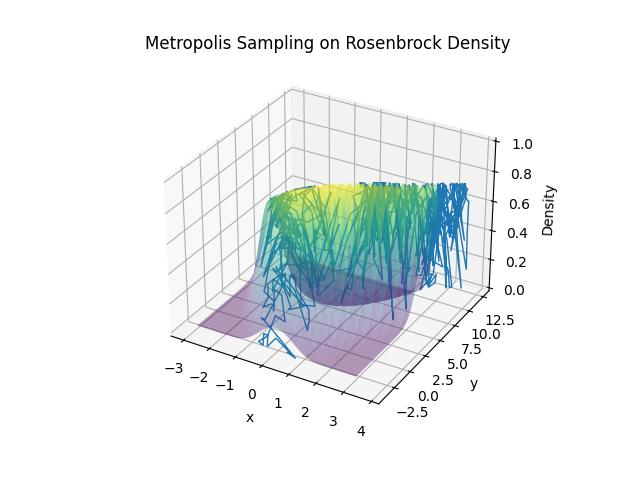
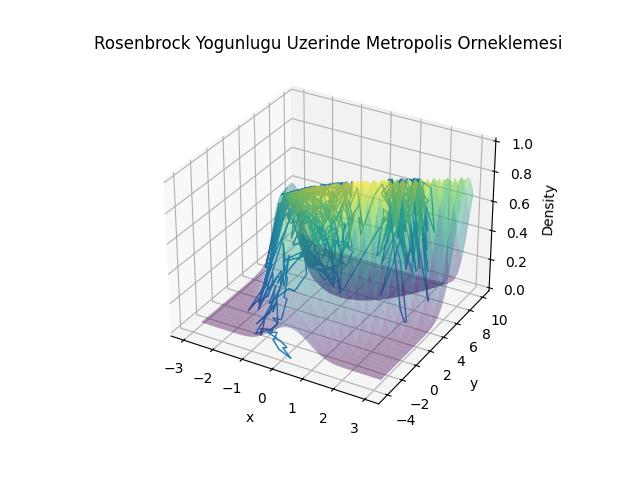
-

diff --git a/stat/stat_097_mcmc/markov_zincirleri_monte_carlo_metropolishastings_gibbs.html b/stat/stat_097_mcmc/markov_zincirleri_monte_carlo_metropolishastings_gibbs.html
@@ -354,87 +354,54 @@ class="sourceCode python"><code class="sourceCode python"><span id="cb1-1"><a hr
 <span id="cb1-22"><a href="#cb1-22" aria-hidden="true" tabindex="-1"></a>plt.savefig(<span class="st">&#39;stat_097_mcmc_01.jpg&#39;</span>)</span></code></pre></div>
 <p><img src="stat_097_mcmc_01.jpg" /></p>
 <div class="sourceCode" id="cb2"><pre
-class="sourceCode python"><code class="sourceCode python"><span id="cb2-1"><a href="#cb2-1" aria-hidden="true" tabindex="-1"></a><span class="im">import</span> numpy <span class="im">as</span> np</span>
-<span id="cb2-2"><a href="#cb2-2" aria-hidden="true" tabindex="-1"></a><span class="im">import</span> matplotlib.pyplot <span class="im">as</span> plt</span>
-<span id="cb2-3"><a href="#cb2-3" aria-hidden="true" tabindex="-1"></a><span class="im">from</span> numpy.random <span class="im">import</span> multivariate_normal <span class="im">as</span> mvn</span>
-<span id="cb2-4"><a href="#cb2-4" aria-hidden="true" tabindex="-1"></a><span class="im">from</span> mpl_toolkits.mplot3d <span class="im">import</span> Axes3D</span>
-<span id="cb2-5"><a href="#cb2-5" aria-hidden="true" tabindex="-1"></a></span>
-<span id="cb2-6"><a href="#cb2-6" aria-hidden="true" tabindex="-1"></a>n_iters <span class="op">=</span> <span class="dv">1000</span>          <span class="co"># number of Metropolis steps</span></span>
-<span id="cb2-7"><a href="#cb2-7" aria-hidden="true" tabindex="-1"></a>proposal_var <span class="op">=</span> <span class="fl">0.1</span>      <span class="co"># proposal variance</span></span>
-<span id="cb2-8"><a href="#cb2-8" aria-hidden="true" tabindex="-1"></a>burn_in <span class="op">=</span> <span class="dv">100</span>           <span class="co"># discard early samples</span></span>
-<span id="cb2-9"><a href="#cb2-9" aria-hidden="true" tabindex="-1"></a></span>
-<span id="cb2-10"><a href="#cb2-10" aria-hidden="true" tabindex="-1"></a>a,b <span class="op">=</span> <span class="dv">1</span>,<span class="dv">4</span></span>
-<span id="cb2-11"><a href="#cb2-11" aria-hidden="true" tabindex="-1"></a><span class="kw">def</span> rosen(x, y):</span>
-<span id="cb2-12"><a href="#cb2-12" aria-hidden="true" tabindex="-1"></a>    <span class="cf">return</span> np.exp(</span>
-<span id="cb2-13"><a href="#cb2-13" aria-hidden="true" tabindex="-1"></a>        <span class="op">-</span>((a <span class="op">-</span> x)<span class="op">**</span><span class="dv">2</span> <span class="op">+</span> b<span class="op">*</span>(y <span class="op">-</span> x<span class="op">**</span><span class="dv">2</span>)<span class="op">**</span><span class="dv">2</span>) <span class="op">/</span> <span class="dv">20</span></span>
-<span id="cb2-14"><a href="#cb2-14" aria-hidden="true" tabindex="-1"></a>    )</span>
+class="sourceCode python"><code class="sourceCode python"><span id="cb2-1"><a href="#cb2-1" aria-hidden="true" tabindex="-1"></a><span class="im">from</span> numpy.random <span class="im">import</span> multivariate_normal <span class="im">as</span> mvn</span>
+<span id="cb2-2"><a href="#cb2-2" aria-hidden="true" tabindex="-1"></a><span class="im">from</span> mpl_toolkits.mplot3d <span class="im">import</span> Axes3D</span>
+<span id="cb2-3"><a href="#cb2-3" aria-hidden="true" tabindex="-1"></a></span>
+<span id="cb2-4"><a href="#cb2-4" aria-hidden="true" tabindex="-1"></a>n_iters <span class="op">=</span> <span class="dv">1000</span>          <span class="co"># Metropolis adımlarının sayısı</span></span>
+<span id="cb2-5"><a href="#cb2-5" aria-hidden="true" tabindex="-1"></a>proposal_var <span class="op">=</span> <span class="fl">0.1</span>      <span class="co"># öneri varyansı</span></span>
+<span id="cb2-6"><a href="#cb2-6" aria-hidden="true" tabindex="-1"></a>burn_in <span class="op">=</span> <span class="dv">100</span>           <span class="co"># erken örnekleri at</span></span>
+<span id="cb2-7"><a href="#cb2-7" aria-hidden="true" tabindex="-1"></a>a,b <span class="op">=</span> <span class="dv">1</span>,<span class="dv">4</span></span>
+<span id="cb2-8"><a href="#cb2-8" aria-hidden="true" tabindex="-1"></a></span>
+<span id="cb2-9"><a href="#cb2-9" aria-hidden="true" tabindex="-1"></a><span class="kw">def</span> rosen(x, y): <span class="cf">return</span> np.exp( <span class="op">-</span>((a <span class="op">-</span> x)<span class="op">**</span><span class="dv">2</span> <span class="op">+</span> b<span class="op">*</span>(y <span class="op">-</span> x<span class="op">**</span><span class="dv">2</span>)<span class="op">**</span><span class="dv">2</span>) <span class="op">/</span> <span class="dv">20</span>)</span>
+<span id="cb2-10"><a href="#cb2-10" aria-hidden="true" tabindex="-1"></a>    </span>
+<span id="cb2-11"><a href="#cb2-11" aria-hidden="true" tabindex="-1"></a>samples <span class="op">=</span> np.empty((n_iters, <span class="dv">2</span>))</span>
+<span id="cb2-12"><a href="#cb2-12" aria-hidden="true" tabindex="-1"></a></span>
+<span id="cb2-13"><a href="#cb2-13" aria-hidden="true" tabindex="-1"></a><span class="co"># Rastgele başlangıç noktası</span></span>
+<span id="cb2-14"><a href="#cb2-14" aria-hidden="true" tabindex="-1"></a>samples[<span class="dv">0</span>] <span class="op">=</span> np.random.uniform(low<span class="op">=</span>[<span class="op">-</span><span class="dv">3</span>, <span class="op">-</span><span class="dv">3</span>],high<span class="op">=</span>[<span class="dv">3</span>, <span class="dv">10</span>],size<span class="op">=</span><span class="dv">2</span> )</span>
 <span id="cb2-15"><a href="#cb2-15" aria-hidden="true" tabindex="-1"></a></span>
-<span id="cb2-16"><a href="#cb2-16" aria-hidden="true" tabindex="-1"></a>samples <span class="op">=</span> np.empty((n_iters, <span class="dv">2</span>))</span>
-<span id="cb2-17"><a href="#cb2-17" aria-hidden="true" tabindex="-1"></a></span>
-<span id="cb2-18"><a href="#cb2-18" aria-hidden="true" tabindex="-1"></a><span class="co"># Random starting point</span></span>
-<span id="cb2-19"><a href="#cb2-19" aria-hidden="true" tabindex="-1"></a>samples[<span class="dv">0</span>] <span class="op">=</span> np.random.uniform(</span>
-<span id="cb2-20"><a href="#cb2-20" aria-hidden="true" tabindex="-1"></a>    low<span class="op">=</span>[<span class="op">-</span><span class="dv">3</span>, <span class="op">-</span><span class="dv">3</span>],</span>
-<span id="cb2-21"><a href="#cb2-21" aria-hidden="true" tabindex="-1"></a>    high<span class="op">=</span>[<span class="dv">3</span>, <span class="dv">10</span>],</span>
-<span id="cb2-22"><a href="#cb2-22" aria-hidden="true" tabindex="-1"></a>    size<span class="op">=</span><span class="dv">2</span></span>
-<span id="cb2-23"><a href="#cb2-23" aria-hidden="true" tabindex="-1"></a>)</span>
-<span id="cb2-24"><a href="#cb2-24" aria-hidden="true" tabindex="-1"></a></span>
-<span id="cb2-25"><a href="#cb2-25" aria-hidden="true" tabindex="-1"></a><span class="cf">for</span> i <span class="kw">in</span> <span class="bu">range</span>(<span class="dv">1</span>, n_iters):</span>
-<span id="cb2-26"><a href="#cb2-26" aria-hidden="true" tabindex="-1"></a></span>
-<span id="cb2-27"><a href="#cb2-27" aria-hidden="true" tabindex="-1"></a>    curr <span class="op">=</span> samples[i <span class="op">-</span> <span class="dv">1</span>]</span>
-<span id="cb2-28"><a href="#cb2-28" aria-hidden="true" tabindex="-1"></a></span>
-<span id="cb2-29"><a href="#cb2-29" aria-hidden="true" tabindex="-1"></a>    <span class="co"># Propose new point</span></span>
-<span id="cb2-30"><a href="#cb2-30" aria-hidden="true" tabindex="-1"></a>    prop <span class="op">=</span> curr <span class="op">+</span> mvn(</span>
-<span id="cb2-31"><a href="#cb2-31" aria-hidden="true" tabindex="-1"></a>        mean<span class="op">=</span>np.zeros(<span class="dv">2</span>),</span>
-<span id="cb2-32"><a href="#cb2-32" aria-hidden="true" tabindex="-1"></a>        cov<span class="op">=</span>np.eye(<span class="dv">2</span>) <span class="op">*</span> proposal_var</span>
-<span id="cb2-33"><a href="#cb2-33" aria-hidden="true" tabindex="-1"></a>    )</span>
-<span id="cb2-34"><a href="#cb2-34" aria-hidden="true" tabindex="-1"></a></span>
-<span id="cb2-35"><a href="#cb2-35" aria-hidden="true" tabindex="-1"></a>    <span class="co"># Acceptance probability</span></span>
-<span id="cb2-36"><a href="#cb2-36" aria-hidden="true" tabindex="-1"></a>    alpha <span class="op">=</span> <span class="bu">min</span>(</span>
-<span id="cb2-37"><a href="#cb2-37" aria-hidden="true" tabindex="-1"></a>        <span class="dv">1</span>,</span>
-<span id="cb2-38"><a href="#cb2-38" aria-hidden="true" tabindex="-1"></a>        rosen(<span class="op">*</span>prop) <span class="op">/</span> rosen(<span class="op">*</span>curr)</span>
-<span id="cb2-39"><a href="#cb2-39" aria-hidden="true" tabindex="-1"></a>    )</span>
+<span id="cb2-16"><a href="#cb2-16" aria-hidden="true" tabindex="-1"></a><span class="cf">for</span> i <span class="kw">in</span> <span class="bu">range</span>(<span class="dv">1</span>, n_iters):</span>
+<span id="cb2-17"><a href="#cb2-17" aria-hidden="true" tabindex="-1"></a>    curr <span class="op">=</span> samples[i <span class="op">-</span> <span class="dv">1</span>]</span>
+<span id="cb2-18"><a href="#cb2-18" aria-hidden="true" tabindex="-1"></a>    <span class="co"># Yeni nokta öner</span></span>
+<span id="cb2-19"><a href="#cb2-19" aria-hidden="true" tabindex="-1"></a>    prop <span class="op">=</span> curr <span class="op">+</span> mvn(mean<span class="op">=</span>np.zeros(<span class="dv">2</span>),cov<span class="op">=</span>np.eye(<span class="dv">2</span>) <span class="op">*</span> proposal_var)</span>
+<span id="cb2-20"><a href="#cb2-20" aria-hidden="true" tabindex="-1"></a>    </span>
+<span id="cb2-21"><a href="#cb2-21" aria-hidden="true" tabindex="-1"></a>    <span class="co"># Kabul olasılığı</span></span>
+<span id="cb2-22"><a href="#cb2-22" aria-hidden="true" tabindex="-1"></a>    alpha <span class="op">=</span> <span class="bu">min</span>(<span class="dv">1</span>, rosen(<span class="op">*</span>prop) <span class="op">/</span> rosen(<span class="op">*</span>curr))</span>
+<span id="cb2-23"><a href="#cb2-23" aria-hidden="true" tabindex="-1"></a>    </span>
+<span id="cb2-24"><a href="#cb2-24" aria-hidden="true" tabindex="-1"></a>    <span class="co"># Kabul et ya da reddet</span></span>
+<span id="cb2-25"><a href="#cb2-25" aria-hidden="true" tabindex="-1"></a>    <span class="cf">if</span> np.random.uniform() <span class="op">&lt;</span> alpha:</span>
+<span id="cb2-26"><a href="#cb2-26" aria-hidden="true" tabindex="-1"></a>        curr <span class="op">=</span> prop</span>
+<span id="cb2-27"><a href="#cb2-27" aria-hidden="true" tabindex="-1"></a>    samples[i] <span class="op">=</span> curr</span>
+<span id="cb2-28"><a href="#cb2-28" aria-hidden="true" tabindex="-1"></a>    </span>
+<span id="cb2-29"><a href="#cb2-29" aria-hidden="true" tabindex="-1"></a><span class="co"># Burn-in&#39;i çıkar</span></span>
+<span id="cb2-30"><a href="#cb2-30" aria-hidden="true" tabindex="-1"></a>samples <span class="op">=</span> samples[burn_in:]</span>
+<span id="cb2-31"><a href="#cb2-31" aria-hidden="true" tabindex="-1"></a>x <span class="op">=</span> np.linspace(<span class="op">-</span><span class="dv">3</span>, <span class="dv">3</span>, <span class="dv">60</span>)</span>
+<span id="cb2-32"><a href="#cb2-32" aria-hidden="true" tabindex="-1"></a>y <span class="op">=</span> np.linspace(<span class="op">-</span><span class="dv">3</span>, <span class="dv">10</span>, <span class="dv">60</span>)</span>
+<span id="cb2-33"><a href="#cb2-33" aria-hidden="true" tabindex="-1"></a>X, Y <span class="op">=</span> np.meshgrid(x, y)</span>
+<span id="cb2-34"><a href="#cb2-34" aria-hidden="true" tabindex="-1"></a>Z <span class="op">=</span> rosen(X, Y)</span>
+<span id="cb2-35"><a href="#cb2-35" aria-hidden="true" tabindex="-1"></a></span>
+<span id="cb2-36"><a href="#cb2-36" aria-hidden="true" tabindex="-1"></a><span class="co"># Örnek yükseklikleri</span></span>
+<span id="cb2-37"><a href="#cb2-37" aria-hidden="true" tabindex="-1"></a>Z_samples <span class="op">=</span> rosen(samples[:, <span class="dv">0</span>], samples[:, <span class="dv">1</span>])</span>
+<span id="cb2-38"><a href="#cb2-38" aria-hidden="true" tabindex="-1"></a>fig <span class="op">=</span> plt.figure()</span>
+<span id="cb2-39"><a href="#cb2-39" aria-hidden="true" tabindex="-1"></a>ax <span class="op">=</span> fig.add_subplot(<span class="dv">111</span>, projection<span class="op">=</span><span class="st">&#39;3d&#39;</span>)</span>
 <span id="cb2-40"><a href="#cb2-40" aria-hidden="true" tabindex="-1"></a></span>
-<span id="cb2-41"><a href="#cb2-41" aria-hidden="true" tabindex="-1"></a>    <span class="co"># Accept or reject</span></span>
-<span id="cb2-42"><a href="#cb2-42" aria-hidden="true" tabindex="-1"></a>    <span class="cf">if</span> np.random.uniform() <span class="op">&lt;</span> alpha:</span>
-<span id="cb2-43"><a href="#cb2-43" aria-hidden="true" tabindex="-1"></a>        curr <span class="op">=</span> prop</span>
-<span id="cb2-44"><a href="#cb2-44" aria-hidden="true" tabindex="-1"></a></span>
-<span id="cb2-45"><a href="#cb2-45" aria-hidden="true" tabindex="-1"></a>    samples[i] <span class="op">=</span> curr</span>
-<span id="cb2-46"><a href="#cb2-46" aria-hidden="true" tabindex="-1"></a></span>
-<span id="cb2-47"><a href="#cb2-47" aria-hidden="true" tabindex="-1"></a><span class="co"># Remove burn-in</span></span>
-<span id="cb2-48"><a href="#cb2-48" aria-hidden="true" tabindex="-1"></a>samples <span class="op">=</span> samples[burn_in:]</span>
-<span id="cb2-49"><a href="#cb2-49" aria-hidden="true" tabindex="-1"></a></span>
-<span id="cb2-50"><a href="#cb2-50" aria-hidden="true" tabindex="-1"></a>x <span class="op">=</span> np.linspace(<span class="op">-</span><span class="dv">3</span>, <span class="dv">3</span>, <span class="dv">60</span>)</span>
-<span id="cb2-51"><a href="#cb2-51" aria-hidden="true" tabindex="-1"></a>y <span class="op">=</span> np.linspace(<span class="op">-</span><span class="dv">3</span>, <span class="dv">10</span>, <span class="dv">60</span>)</span>
-<span id="cb2-52"><a href="#cb2-52" aria-hidden="true" tabindex="-1"></a></span>
-<span id="cb2-53"><a href="#cb2-53" aria-hidden="true" tabindex="-1"></a>X, Y <span class="op">=</span> np.meshgrid(x, y)</span>
-<span id="cb2-54"><a href="#cb2-54" aria-hidden="true" tabindex="-1"></a>Z <span class="op">=</span> rosen(X, Y)</span>
-<span id="cb2-55"><a href="#cb2-55" aria-hidden="true" tabindex="-1"></a></span>
-<span id="cb2-56"><a href="#cb2-56" aria-hidden="true" tabindex="-1"></a><span class="co"># Sample heights</span></span>
-<span id="cb2-57"><a href="#cb2-57" aria-hidden="true" tabindex="-1"></a>Z_samples <span class="op">=</span> rosen(</span>
-<span id="cb2-58"><a href="#cb2-58" aria-hidden="true" tabindex="-1"></a>    samples[:, <span class="dv">0</span>],</span>
-<span id="cb2-59"><a href="#cb2-59" aria-hidden="true" tabindex="-1"></a>    samples[:, <span class="dv">1</span>]</span>
-<span id="cb2-60"><a href="#cb2-60" aria-hidden="true" tabindex="-1"></a>)</span>
-<span id="cb2-61"><a href="#cb2-61" aria-hidden="true" tabindex="-1"></a></span>
-<span id="cb2-62"><a href="#cb2-62" aria-hidden="true" tabindex="-1"></a>fig <span class="op">=</span> plt.figure()</span>
-<span id="cb2-63"><a href="#cb2-63" aria-hidden="true" tabindex="-1"></a>ax <span class="op">=</span> fig.add_subplot(<span class="dv">111</span>, projection<span class="op">=</span><span class="st">&#39;3d&#39;</span>)</span>
-<span id="cb2-64"><a href="#cb2-64" aria-hidden="true" tabindex="-1"></a></span>
-<span id="cb2-65"><a href="#cb2-65" aria-hidden="true" tabindex="-1"></a><span class="co"># Surface (wireframe)</span></span>
-<span id="cb2-66"><a href="#cb2-66" aria-hidden="true" tabindex="-1"></a>ax.plot_surface(X, Y, Z, cmap<span class="op">=</span><span class="st">&#39;viridis&#39;</span>, linewidth<span class="op">=</span><span class="dv">0</span>, antialiased<span class="op">=</span><span class="va">True</span>,alpha<span class="op">=</span><span class="fl">0.4</span>)</span>
-<span id="cb2-67"><a href="#cb2-67" aria-hidden="true" tabindex="-1"></a></span>
-<span id="cb2-68"><a href="#cb2-68" aria-hidden="true" tabindex="-1"></a>ax.plot(</span>
-<span id="cb2-69"><a href="#cb2-69" aria-hidden="true" tabindex="-1"></a>    samples[:, <span class="dv">0</span>],</span>
-<span id="cb2-70"><a href="#cb2-70" aria-hidden="true" tabindex="-1"></a>    samples[:, <span class="dv">1</span>],</span>
-<span id="cb2-71"><a href="#cb2-71" aria-hidden="true" tabindex="-1"></a>    Z_samples,</span>
-<span id="cb2-72"><a href="#cb2-72" aria-hidden="true" tabindex="-1"></a>    linewidth<span class="op">=</span><span class="dv">1</span></span>
-<span id="cb2-73"><a href="#cb2-73" aria-hidden="true" tabindex="-1"></a>)</span>
-<span id="cb2-74"><a href="#cb2-74" aria-hidden="true" tabindex="-1"></a></span>
-<span id="cb2-75"><a href="#cb2-75" aria-hidden="true" tabindex="-1"></a>ax.set_xlabel(<span class="st">&quot;x&quot;</span>)</span>
-<span id="cb2-76"><a href="#cb2-76" aria-hidden="true" tabindex="-1"></a>ax.set_ylabel(<span class="st">&quot;y&quot;</span>)</span>
-<span id="cb2-77"><a href="#cb2-77" aria-hidden="true" tabindex="-1"></a>ax.set_zlabel(<span class="st">&quot;Density&quot;</span>)</span>
-<span id="cb2-78"><a href="#cb2-78" aria-hidden="true" tabindex="-1"></a></span>
-<span id="cb2-79"><a href="#cb2-79" aria-hidden="true" tabindex="-1"></a>plt.title(<span class="st">&quot;Metropolis Sampling on Rosenbrock Density&quot;</span>)</span>
-<span id="cb2-80"><a href="#cb2-80" aria-hidden="true" tabindex="-1"></a></span>
-<span id="cb2-81"><a href="#cb2-81" aria-hidden="true" tabindex="-1"></a>plt.savefig(<span class="st">&#39;stat_097_mcmc_02.jpg&#39;</span>)</span></code></pre></div>
+<span id="cb2-41"><a href="#cb2-41" aria-hidden="true" tabindex="-1"></a><span class="co"># Yüzey</span></span>
+<span id="cb2-42"><a href="#cb2-42" aria-hidden="true" tabindex="-1"></a>ax.plot_surface(X, Y, Z, cmap<span class="op">=</span><span class="st">&#39;viridis&#39;</span>, linewidth<span class="op">=</span><span class="dv">0</span>, antialiased<span class="op">=</span><span class="va">True</span>,alpha<span class="op">=</span><span class="fl">0.4</span>)</span>
+<span id="cb2-43"><a href="#cb2-43" aria-hidden="true" tabindex="-1"></a>ax.plot(samples[:, <span class="dv">0</span>],samples[:, <span class="dv">1</span>],Z_samples,linewidth<span class="op">=</span><span class="dv">1</span>)</span>
+<span id="cb2-44"><a href="#cb2-44" aria-hidden="true" tabindex="-1"></a>ax.set_xlabel(<span class="st">&quot;x&quot;</span>)</span>
+<span id="cb2-45"><a href="#cb2-45" aria-hidden="true" tabindex="-1"></a>ax.set_ylabel(<span class="st">&quot;y&quot;</span>)</span>
+<span id="cb2-46"><a href="#cb2-46" aria-hidden="true" tabindex="-1"></a>ax.set_zlabel(<span class="st">&quot;Density&quot;</span>)</span>
+<span id="cb2-47"><a href="#cb2-47" aria-hidden="true" tabindex="-1"></a>plt.title(<span class="st">&quot;Rosenbrock Yogunlugu Uzerinde Metropolis Orneklemesi&quot;</span>)</span>
+<span id="cb2-48"><a href="#cb2-48" aria-hidden="true" tabindex="-1"></a>plt.savefig(<span class="st">&#39;stat_097_mcmc_02.jpg&#39;</span>)</span></code></pre></div>
 <p><img src="stat_097_mcmc_02.jpg" /></p>
 <p>Gibbs Örneklemesi</p>
 <p>Gibbs örneklemesi, Metropolis-Hastings’in özel bir durumudur; yeni

diff --git a/stat/stat_097_mcmc/stat_097_mcmc.html b/stat/stat_097_mcmc/stat_097_mcmc.html
@@ -354,87 +354,54 @@ class="sourceCode python"><code class="sourceCode python"><span id="cb1-1"><a hr
 <span id="cb1-22"><a href="#cb1-22" aria-hidden="true" tabindex="-1"></a>plt.savefig(<span class="st">&#39;stat_097_mcmc_01.jpg&#39;</span>)</span></code></pre></div>
 <p><img src="stat_097_mcmc_01.jpg" /></p>
 <div class="sourceCode" id="cb2"><pre
-class="sourceCode python"><code class="sourceCode python"><span id="cb2-1"><a href="#cb2-1" aria-hidden="true" tabindex="-1"></a><span class="im">import</span> numpy <span class="im">as</span> np</span>
-<span id="cb2-2"><a href="#cb2-2" aria-hidden="true" tabindex="-1"></a><span class="im">import</span> matplotlib.pyplot <span class="im">as</span> plt</span>
-<span id="cb2-3"><a href="#cb2-3" aria-hidden="true" tabindex="-1"></a><span class="im">from</span> numpy.random <span class="im">import</span> multivariate_normal <span class="im">as</span> mvn</span>
-<span id="cb2-4"><a href="#cb2-4" aria-hidden="true" tabindex="-1"></a><span class="im">from</span> mpl_toolkits.mplot3d <span class="im">import</span> Axes3D</span>
-<span id="cb2-5"><a href="#cb2-5" aria-hidden="true" tabindex="-1"></a></span>
-<span id="cb2-6"><a href="#cb2-6" aria-hidden="true" tabindex="-1"></a>n_iters <span class="op">=</span> <span class="dv">1000</span>          <span class="co"># number of Metropolis steps</span></span>
-<span id="cb2-7"><a href="#cb2-7" aria-hidden="true" tabindex="-1"></a>proposal_var <span class="op">=</span> <span class="fl">0.1</span>      <span class="co"># proposal variance</span></span>
-<span id="cb2-8"><a href="#cb2-8" aria-hidden="true" tabindex="-1"></a>burn_in <span class="op">=</span> <span class="dv">100</span>           <span class="co"># discard early samples</span></span>
-<span id="cb2-9"><a href="#cb2-9" aria-hidden="true" tabindex="-1"></a></span>
-<span id="cb2-10"><a href="#cb2-10" aria-hidden="true" tabindex="-1"></a>a,b <span class="op">=</span> <span class="dv">1</span>,<span class="dv">4</span></span>
-<span id="cb2-11"><a href="#cb2-11" aria-hidden="true" tabindex="-1"></a><span class="kw">def</span> rosen(x, y):</span>
-<span id="cb2-12"><a href="#cb2-12" aria-hidden="true" tabindex="-1"></a>    <span class="cf">return</span> np.exp(</span>
-<span id="cb2-13"><a href="#cb2-13" aria-hidden="true" tabindex="-1"></a>        <span class="op">-</span>((a <span class="op">-</span> x)<span class="op">**</span><span class="dv">2</span> <span class="op">+</span> b<span class="op">*</span>(y <span class="op">-</span> x<span class="op">**</span><span class="dv">2</span>)<span class="op">**</span><span class="dv">2</span>) <span class="op">/</span> <span class="dv">20</span></span>
-<span id="cb2-14"><a href="#cb2-14" aria-hidden="true" tabindex="-1"></a>    )</span>
+class="sourceCode python"><code class="sourceCode python"><span id="cb2-1"><a href="#cb2-1" aria-hidden="true" tabindex="-1"></a><span class="im">from</span> numpy.random <span class="im">import</span> multivariate_normal <span class="im">as</span> mvn</span>
+<span id="cb2-2"><a href="#cb2-2" aria-hidden="true" tabindex="-1"></a><span class="im">from</span> mpl_toolkits.mplot3d <span class="im">import</span> Axes3D</span>
+<span id="cb2-3"><a href="#cb2-3" aria-hidden="true" tabindex="-1"></a></span>
+<span id="cb2-4"><a href="#cb2-4" aria-hidden="true" tabindex="-1"></a>n_iters <span class="op">=</span> <span class="dv">1000</span>          <span class="co"># Metropolis adımlarının sayısı</span></span>
+<span id="cb2-5"><a href="#cb2-5" aria-hidden="true" tabindex="-1"></a>proposal_var <span class="op">=</span> <span class="fl">0.1</span>      <span class="co"># öneri varyansı</span></span>
+<span id="cb2-6"><a href="#cb2-6" aria-hidden="true" tabindex="-1"></a>burn_in <span class="op">=</span> <span class="dv">100</span>           <span class="co"># erken örnekleri at</span></span>
+<span id="cb2-7"><a href="#cb2-7" aria-hidden="true" tabindex="-1"></a>a,b <span class="op">=</span> <span class="dv">1</span>,<span class="dv">4</span></span>
+<span id="cb2-8"><a href="#cb2-8" aria-hidden="true" tabindex="-1"></a></span>
+<span id="cb2-9"><a href="#cb2-9" aria-hidden="true" tabindex="-1"></a><span class="kw">def</span> rosen(x, y): <span class="cf">return</span> np.exp( <span class="op">-</span>((a <span class="op">-</span> x)<span class="op">**</span><span class="dv">2</span> <span class="op">+</span> b<span class="op">*</span>(y <span class="op">-</span> x<span class="op">**</span><span class="dv">2</span>)<span class="op">**</span><span class="dv">2</span>) <span class="op">/</span> <span class="dv">20</span>)</span>
+<span id="cb2-10"><a href="#cb2-10" aria-hidden="true" tabindex="-1"></a>    </span>
+<span id="cb2-11"><a href="#cb2-11" aria-hidden="true" tabindex="-1"></a>samples <span class="op">=</span> np.empty((n_iters, <span class="dv">2</span>))</span>
+<span id="cb2-12"><a href="#cb2-12" aria-hidden="true" tabindex="-1"></a></span>
+<span id="cb2-13"><a href="#cb2-13" aria-hidden="true" tabindex="-1"></a><span class="co"># Rastgele başlangıç noktası</span></span>
+<span id="cb2-14"><a href="#cb2-14" aria-hidden="true" tabindex="-1"></a>samples[<span class="dv">0</span>] <span class="op">=</span> np.random.uniform(low<span class="op">=</span>[<span class="op">-</span><span class="dv">3</span>, <span class="op">-</span><span class="dv">3</span>],high<span class="op">=</span>[<span class="dv">3</span>, <span class="dv">10</span>],size<span class="op">=</span><span class="dv">2</span> )</span>
 <span id="cb2-15"><a href="#cb2-15" aria-hidden="true" tabindex="-1"></a></span>
-<span id="cb2-16"><a href="#cb2-16" aria-hidden="true" tabindex="-1"></a>samples <span class="op">=</span> np.empty((n_iters, <span class="dv">2</span>))</span>
-<span id="cb2-17"><a href="#cb2-17" aria-hidden="true" tabindex="-1"></a></span>
-<span id="cb2-18"><a href="#cb2-18" aria-hidden="true" tabindex="-1"></a><span class="co"># Random starting point</span></span>
-<span id="cb2-19"><a href="#cb2-19" aria-hidden="true" tabindex="-1"></a>samples[<span class="dv">0</span>] <span class="op">=</span> np.random.uniform(</span>
-<span id="cb2-20"><a href="#cb2-20" aria-hidden="true" tabindex="-1"></a>    low<span class="op">=</span>[<span class="op">-</span><span class="dv">3</span>, <span class="op">-</span><span class="dv">3</span>],</span>
-<span id="cb2-21"><a href="#cb2-21" aria-hidden="true" tabindex="-1"></a>    high<span class="op">=</span>[<span class="dv">3</span>, <span class="dv">10</span>],</span>
-<span id="cb2-22"><a href="#cb2-22" aria-hidden="true" tabindex="-1"></a>    size<span class="op">=</span><span class="dv">2</span></span>
-<span id="cb2-23"><a href="#cb2-23" aria-hidden="true" tabindex="-1"></a>)</span>
-<span id="cb2-24"><a href="#cb2-24" aria-hidden="true" tabindex="-1"></a></span>
-<span id="cb2-25"><a href="#cb2-25" aria-hidden="true" tabindex="-1"></a><span class="cf">for</span> i <span class="kw">in</span> <span class="bu">range</span>(<span class="dv">1</span>, n_iters):</span>
-<span id="cb2-26"><a href="#cb2-26" aria-hidden="true" tabindex="-1"></a></span>
-<span id="cb2-27"><a href="#cb2-27" aria-hidden="true" tabindex="-1"></a>    curr <span class="op">=</span> samples[i <span class="op">-</span> <span class="dv">1</span>]</span>
-<span id="cb2-28"><a href="#cb2-28" aria-hidden="true" tabindex="-1"></a></span>
-<span id="cb2-29"><a href="#cb2-29" aria-hidden="true" tabindex="-1"></a>    <span class="co"># Propose new point</span></span>
-<span id="cb2-30"><a href="#cb2-30" aria-hidden="true" tabindex="-1"></a>    prop <span class="op">=</span> curr <span class="op">+</span> mvn(</span>
-<span id="cb2-31"><a href="#cb2-31" aria-hidden="true" tabindex="-1"></a>        mean<span class="op">=</span>np.zeros(<span class="dv">2</span>),</span>
-<span id="cb2-32"><a href="#cb2-32" aria-hidden="true" tabindex="-1"></a>        cov<span class="op">=</span>np.eye(<span class="dv">2</span>) <span class="op">*</span> proposal_var</span>
-<span id="cb2-33"><a href="#cb2-33" aria-hidden="true" tabindex="-1"></a>    )</span>
-<span id="cb2-34"><a href="#cb2-34" aria-hidden="true" tabindex="-1"></a></span>
-<span id="cb2-35"><a href="#cb2-35" aria-hidden="true" tabindex="-1"></a>    <span class="co"># Acceptance probability</span></span>
-<span id="cb2-36"><a href="#cb2-36" aria-hidden="true" tabindex="-1"></a>    alpha <span class="op">=</span> <span class="bu">min</span>(</span>
-<span id="cb2-37"><a href="#cb2-37" aria-hidden="true" tabindex="-1"></a>        <span class="dv">1</span>,</span>
-<span id="cb2-38"><a href="#cb2-38" aria-hidden="true" tabindex="-1"></a>        rosen(<span class="op">*</span>prop) <span class="op">/</span> rosen(<span class="op">*</span>curr)</span>
-<span id="cb2-39"><a href="#cb2-39" aria-hidden="true" tabindex="-1"></a>    )</span>
+<span id="cb2-16"><a href="#cb2-16" aria-hidden="true" tabindex="-1"></a><span class="cf">for</span> i <span class="kw">in</span> <span class="bu">range</span>(<span class="dv">1</span>, n_iters):</span>
+<span id="cb2-17"><a href="#cb2-17" aria-hidden="true" tabindex="-1"></a>    curr <span class="op">=</span> samples[i <span class="op">-</span> <span class="dv">1</span>]</span>
+<span id="cb2-18"><a href="#cb2-18" aria-hidden="true" tabindex="-1"></a>    <span class="co"># Yeni nokta öner</span></span>
+<span id="cb2-19"><a href="#cb2-19" aria-hidden="true" tabindex="-1"></a>    prop <span class="op">=</span> curr <span class="op">+</span> mvn(mean<span class="op">=</span>np.zeros(<span class="dv">2</span>),cov<span class="op">=</span>np.eye(<span class="dv">2</span>) <span class="op">*</span> proposal_var)</span>
+<span id="cb2-20"><a href="#cb2-20" aria-hidden="true" tabindex="-1"></a>    </span>
+<span id="cb2-21"><a href="#cb2-21" aria-hidden="true" tabindex="-1"></a>    <span class="co"># Kabul olasılığı</span></span>
+<span id="cb2-22"><a href="#cb2-22" aria-hidden="true" tabindex="-1"></a>    alpha <span class="op">=</span> <span class="bu">min</span>(<span class="dv">1</span>, rosen(<span class="op">*</span>prop) <span class="op">/</span> rosen(<span class="op">*</span>curr))</span>
+<span id="cb2-23"><a href="#cb2-23" aria-hidden="true" tabindex="-1"></a>    </span>
+<span id="cb2-24"><a href="#cb2-24" aria-hidden="true" tabindex="-1"></a>    <span class="co"># Kabul et ya da reddet</span></span>
+<span id="cb2-25"><a href="#cb2-25" aria-hidden="true" tabindex="-1"></a>    <span class="cf">if</span> np.random.uniform() <span class="op">&lt;</span> alpha:</span>
+<span id="cb2-26"><a href="#cb2-26" aria-hidden="true" tabindex="-1"></a>        curr <span class="op">=</span> prop</span>
+<span id="cb2-27"><a href="#cb2-27" aria-hidden="true" tabindex="-1"></a>    samples[i] <span class="op">=</span> curr</span>
+<span id="cb2-28"><a href="#cb2-28" aria-hidden="true" tabindex="-1"></a>    </span>
+<span id="cb2-29"><a href="#cb2-29" aria-hidden="true" tabindex="-1"></a><span class="co"># Burn-in&#39;i çıkar</span></span>
+<span id="cb2-30"><a href="#cb2-30" aria-hidden="true" tabindex="-1"></a>samples <span class="op">=</span> samples[burn_in:]</span>
+<span id="cb2-31"><a href="#cb2-31" aria-hidden="true" tabindex="-1"></a>x <span class="op">=</span> np.linspace(<span class="op">-</span><span class="dv">3</span>, <span class="dv">3</span>, <span class="dv">60</span>)</span>
+<span id="cb2-32"><a href="#cb2-32" aria-hidden="true" tabindex="-1"></a>y <span class="op">=</span> np.linspace(<span class="op">-</span><span class="dv">3</span>, <span class="dv">10</span>, <span class="dv">60</span>)</span>
+<span id="cb2-33"><a href="#cb2-33" aria-hidden="true" tabindex="-1"></a>X, Y <span class="op">=</span> np.meshgrid(x, y)</span>
+<span id="cb2-34"><a href="#cb2-34" aria-hidden="true" tabindex="-1"></a>Z <span class="op">=</span> rosen(X, Y)</span>
+<span id="cb2-35"><a href="#cb2-35" aria-hidden="true" tabindex="-1"></a></span>
+<span id="cb2-36"><a href="#cb2-36" aria-hidden="true" tabindex="-1"></a><span class="co"># Örnek yükseklikleri</span></span>
+<span id="cb2-37"><a href="#cb2-37" aria-hidden="true" tabindex="-1"></a>Z_samples <span class="op">=</span> rosen(samples[:, <span class="dv">0</span>], samples[:, <span class="dv">1</span>])</span>
+<span id="cb2-38"><a href="#cb2-38" aria-hidden="true" tabindex="-1"></a>fig <span class="op">=</span> plt.figure()</span>
+<span id="cb2-39"><a href="#cb2-39" aria-hidden="true" tabindex="-1"></a>ax <span class="op">=</span> fig.add_subplot(<span class="dv">111</span>, projection<span class="op">=</span><span class="st">&#39;3d&#39;</span>)</span>
 <span id="cb2-40"><a href="#cb2-40" aria-hidden="true" tabindex="-1"></a></span>
-<span id="cb2-41"><a href="#cb2-41" aria-hidden="true" tabindex="-1"></a>    <span class="co"># Accept or reject</span></span>
-<span id="cb2-42"><a href="#cb2-42" aria-hidden="true" tabindex="-1"></a>    <span class="cf">if</span> np.random.uniform() <span class="op">&lt;</span> alpha:</span>
-<span id="cb2-43"><a href="#cb2-43" aria-hidden="true" tabindex="-1"></a>        curr <span class="op">=</span> prop</span>
-<span id="cb2-44"><a href="#cb2-44" aria-hidden="true" tabindex="-1"></a></span>
-<span id="cb2-45"><a href="#cb2-45" aria-hidden="true" tabindex="-1"></a>    samples[i] <span class="op">=</span> curr</span>
-<span id="cb2-46"><a href="#cb2-46" aria-hidden="true" tabindex="-1"></a></span>
-<span id="cb2-47"><a href="#cb2-47" aria-hidden="true" tabindex="-1"></a><span class="co"># Remove burn-in</span></span>
-<span id="cb2-48"><a href="#cb2-48" aria-hidden="true" tabindex="-1"></a>samples <span class="op">=</span> samples[burn_in:]</span>
-<span id="cb2-49"><a href="#cb2-49" aria-hidden="true" tabindex="-1"></a></span>
-<span id="cb2-50"><a href="#cb2-50" aria-hidden="true" tabindex="-1"></a>x <span class="op">=</span> np.linspace(<span class="op">-</span><span class="dv">3</span>, <span class="dv">3</span>, <span class="dv">60</span>)</span>
-<span id="cb2-51"><a href="#cb2-51" aria-hidden="true" tabindex="-1"></a>y <span class="op">=</span> np.linspace(<span class="op">-</span><span class="dv">3</span>, <span class="dv">10</span>, <span class="dv">60</span>)</span>
-<span id="cb2-52"><a href="#cb2-52" aria-hidden="true" tabindex="-1"></a></span>
-<span id="cb2-53"><a href="#cb2-53" aria-hidden="true" tabindex="-1"></a>X, Y <span class="op">=</span> np.meshgrid(x, y)</span>
-<span id="cb2-54"><a href="#cb2-54" aria-hidden="true" tabindex="-1"></a>Z <span class="op">=</span> rosen(X, Y)</span>
-<span id="cb2-55"><a href="#cb2-55" aria-hidden="true" tabindex="-1"></a></span>
-<span id="cb2-56"><a href="#cb2-56" aria-hidden="true" tabindex="-1"></a><span class="co"># Sample heights</span></span>
-<span id="cb2-57"><a href="#cb2-57" aria-hidden="true" tabindex="-1"></a>Z_samples <span class="op">=</span> rosen(</span>
-<span id="cb2-58"><a href="#cb2-58" aria-hidden="true" tabindex="-1"></a>    samples[:, <span class="dv">0</span>],</span>
-<span id="cb2-59"><a href="#cb2-59" aria-hidden="true" tabindex="-1"></a>    samples[:, <span class="dv">1</span>]</span>
-<span id="cb2-60"><a href="#cb2-60" aria-hidden="true" tabindex="-1"></a>)</span>
-<span id="cb2-61"><a href="#cb2-61" aria-hidden="true" tabindex="-1"></a></span>
-<span id="cb2-62"><a href="#cb2-62" aria-hidden="true" tabindex="-1"></a>fig <span class="op">=</span> plt.figure()</span>
-<span id="cb2-63"><a href="#cb2-63" aria-hidden="true" tabindex="-1"></a>ax <span class="op">=</span> fig.add_subplot(<span class="dv">111</span>, projection<span class="op">=</span><span class="st">&#39;3d&#39;</span>)</span>
-<span id="cb2-64"><a href="#cb2-64" aria-hidden="true" tabindex="-1"></a></span>
-<span id="cb2-65"><a href="#cb2-65" aria-hidden="true" tabindex="-1"></a><span class="co"># Surface (wireframe)</span></span>
-<span id="cb2-66"><a href="#cb2-66" aria-hidden="true" tabindex="-1"></a>ax.plot_surface(X, Y, Z, cmap<span class="op">=</span><span class="st">&#39;viridis&#39;</span>, linewidth<span class="op">=</span><span class="dv">0</span>, antialiased<span class="op">=</span><span class="va">True</span>,alpha<span class="op">=</span><span class="fl">0.4</span>)</span>
-<span id="cb2-67"><a href="#cb2-67" aria-hidden="true" tabindex="-1"></a></span>
-<span id="cb2-68"><a href="#cb2-68" aria-hidden="true" tabindex="-1"></a>ax.plot(</span>
-<span id="cb2-69"><a href="#cb2-69" aria-hidden="true" tabindex="-1"></a>    samples[:, <span class="dv">0</span>],</span>
-<span id="cb2-70"><a href="#cb2-70" aria-hidden="true" tabindex="-1"></a>    samples[:, <span class="dv">1</span>],</span>
-<span id="cb2-71"><a href="#cb2-71" aria-hidden="true" tabindex="-1"></a>    Z_samples,</span>
-<span id="cb2-72"><a href="#cb2-72" aria-hidden="true" tabindex="-1"></a>    linewidth<span class="op">=</span><span class="dv">1</span></span>
-<span id="cb2-73"><a href="#cb2-73" aria-hidden="true" tabindex="-1"></a>)</span>
-<span id="cb2-74"><a href="#cb2-74" aria-hidden="true" tabindex="-1"></a></span>
-<span id="cb2-75"><a href="#cb2-75" aria-hidden="true" tabindex="-1"></a>ax.set_xlabel(<span class="st">&quot;x&quot;</span>)</span>
-<span id="cb2-76"><a href="#cb2-76" aria-hidden="true" tabindex="-1"></a>ax.set_ylabel(<span class="st">&quot;y&quot;</span>)</span>
-<span id="cb2-77"><a href="#cb2-77" aria-hidden="true" tabindex="-1"></a>ax.set_zlabel(<span class="st">&quot;Density&quot;</span>)</span>
-<span id="cb2-78"><a href="#cb2-78" aria-hidden="true" tabindex="-1"></a></span>
-<span id="cb2-79"><a href="#cb2-79" aria-hidden="true" tabindex="-1"></a>plt.title(<span class="st">&quot;Metropolis Sampling on Rosenbrock Density&quot;</span>)</span>
-<span id="cb2-80"><a href="#cb2-80" aria-hidden="true" tabindex="-1"></a></span>
-<span id="cb2-81"><a href="#cb2-81" aria-hidden="true" tabindex="-1"></a>plt.savefig(<span class="st">&#39;stat_097_mcmc_02.jpg&#39;</span>)</span></code></pre></div>
+<span id="cb2-41"><a href="#cb2-41" aria-hidden="true" tabindex="-1"></a><span class="co"># Yüzey</span></span>
+<span id="cb2-42"><a href="#cb2-42" aria-hidden="true" tabindex="-1"></a>ax.plot_surface(X, Y, Z, cmap<span class="op">=</span><span class="st">&#39;viridis&#39;</span>, linewidth<span class="op">=</span><span class="dv">0</span>, antialiased<span class="op">=</span><span class="va">True</span>,alpha<span class="op">=</span><span class="fl">0.4</span>)</span>
+<span id="cb2-43"><a href="#cb2-43" aria-hidden="true" tabindex="-1"></a>ax.plot(samples[:, <span class="dv">0</span>],samples[:, <span class="dv">1</span>],Z_samples,linewidth<span class="op">=</span><span class="dv">1</span>)</span>
+<span id="cb2-44"><a href="#cb2-44" aria-hidden="true" tabindex="-1"></a>ax.set_xlabel(<span class="st">&quot;x&quot;</span>)</span>
+<span id="cb2-45"><a href="#cb2-45" aria-hidden="true" tabindex="-1"></a>ax.set_ylabel(<span class="st">&quot;y&quot;</span>)</span>
+<span id="cb2-46"><a href="#cb2-46" aria-hidden="true" tabindex="-1"></a>ax.set_zlabel(<span class="st">&quot;Density&quot;</span>)</span>
+<span id="cb2-47"><a href="#cb2-47" aria-hidden="true" tabindex="-1"></a>plt.title(<span class="st">&quot;Rosenbrock Yogunlugu Uzerinde Metropolis Orneklemesi&quot;</span>)</span>
+<span id="cb2-48"><a href="#cb2-48" aria-hidden="true" tabindex="-1"></a>plt.savefig(<span class="st">&#39;stat_097_mcmc_02.jpg&#39;</span>)</span></code></pre></div>
 <p><img src="stat_097_mcmc_02.jpg" /></p>
 <p>Gibbs Örneklemesi</p>
 <p>Gibbs örneklemesi, Metropolis-Hastings’in özel bir durumudur; yeni
